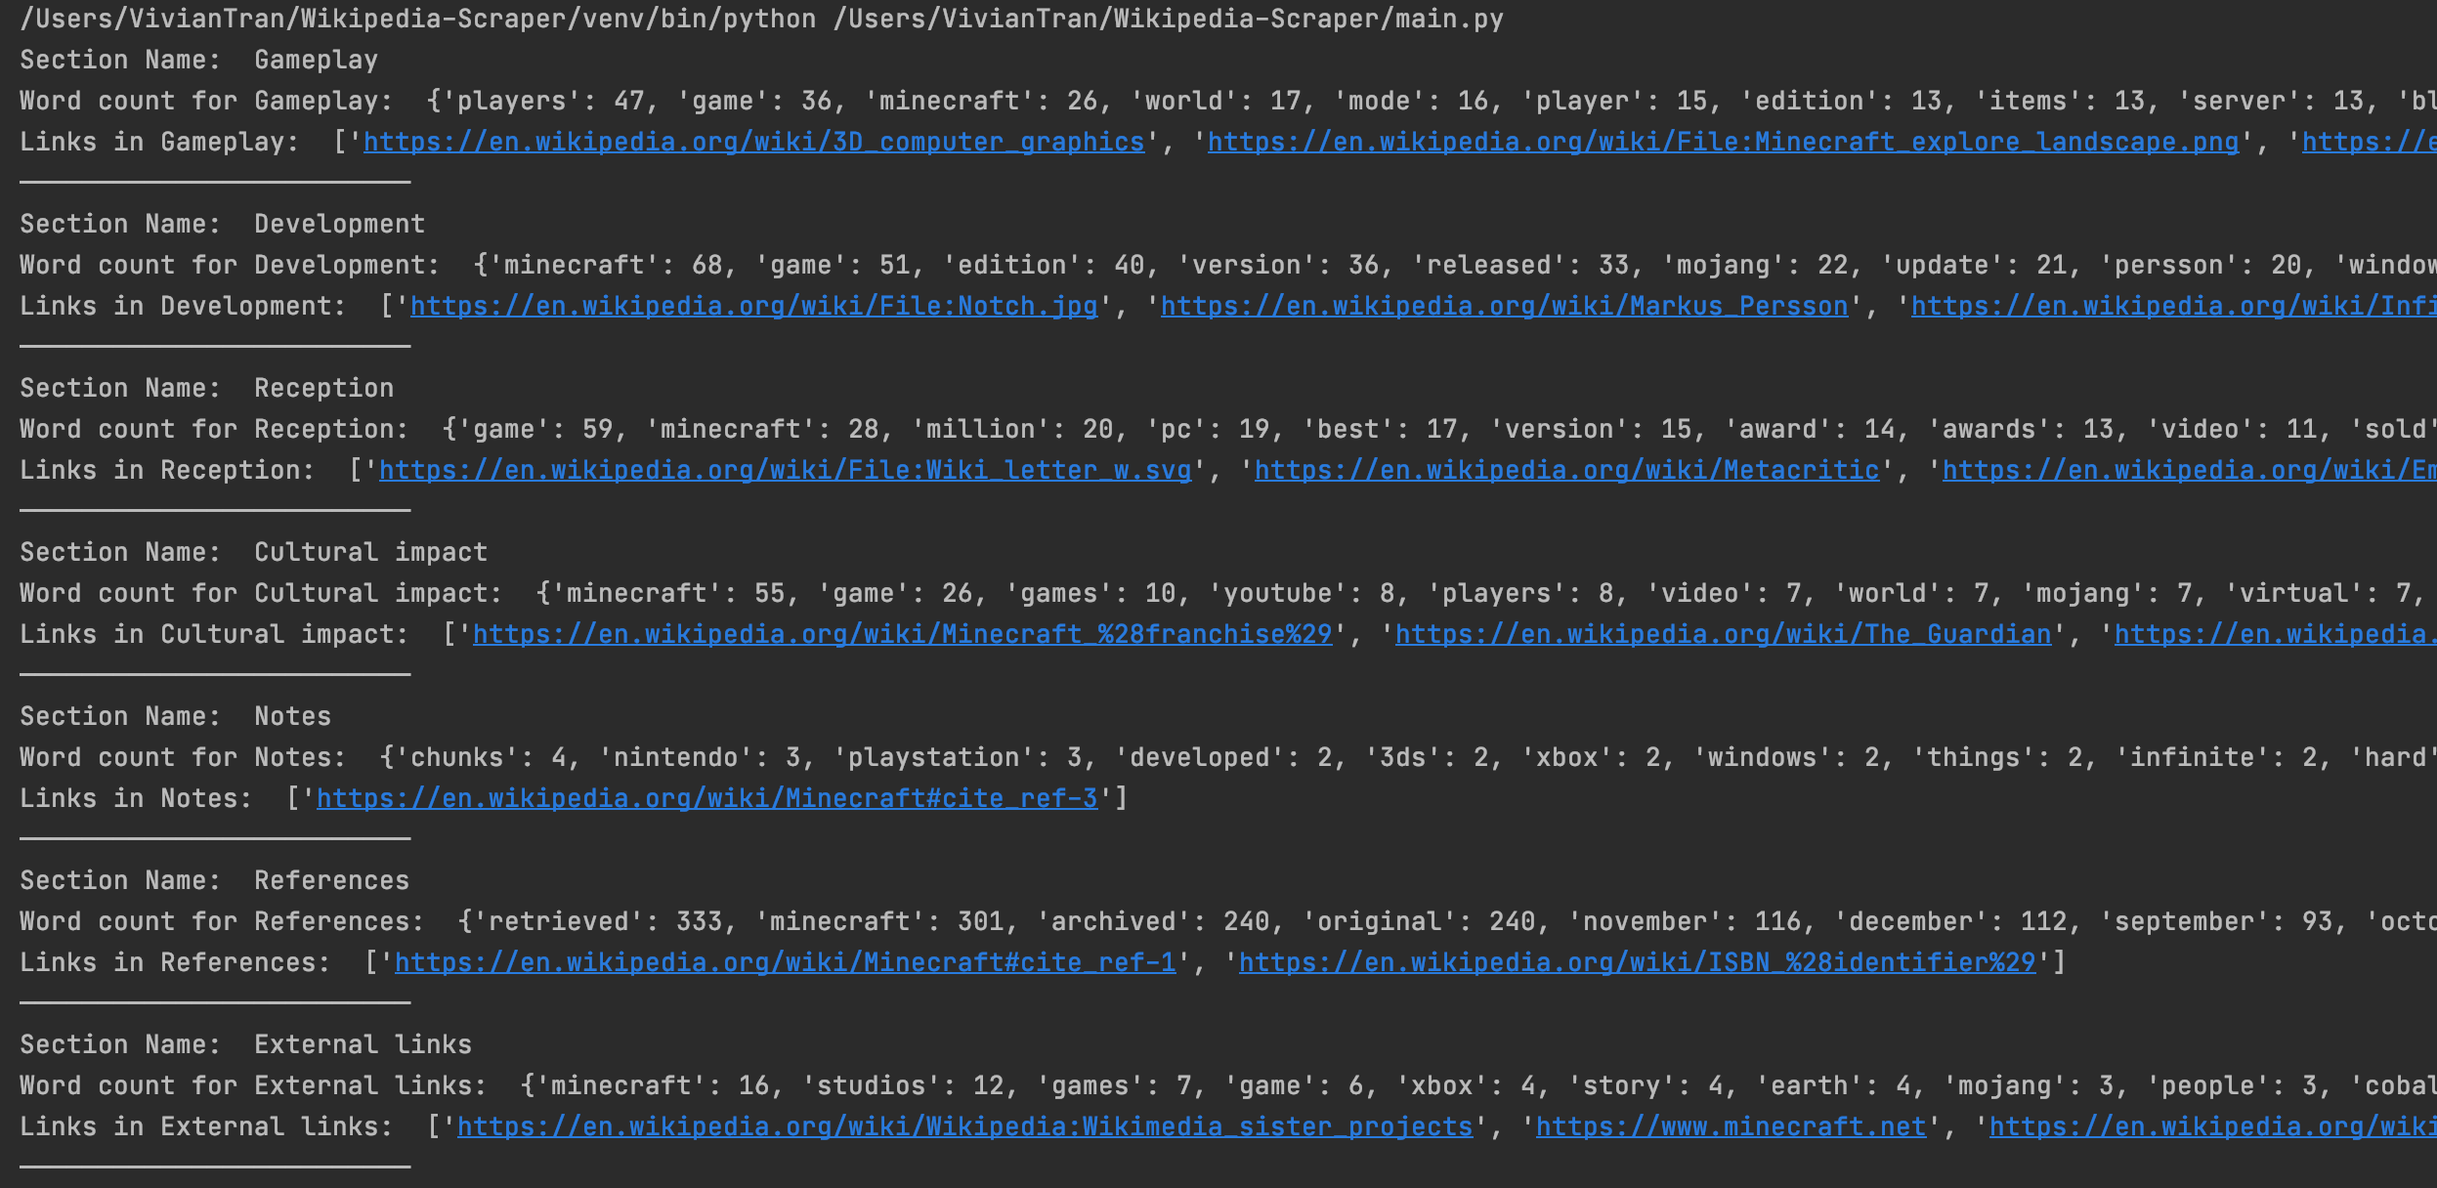
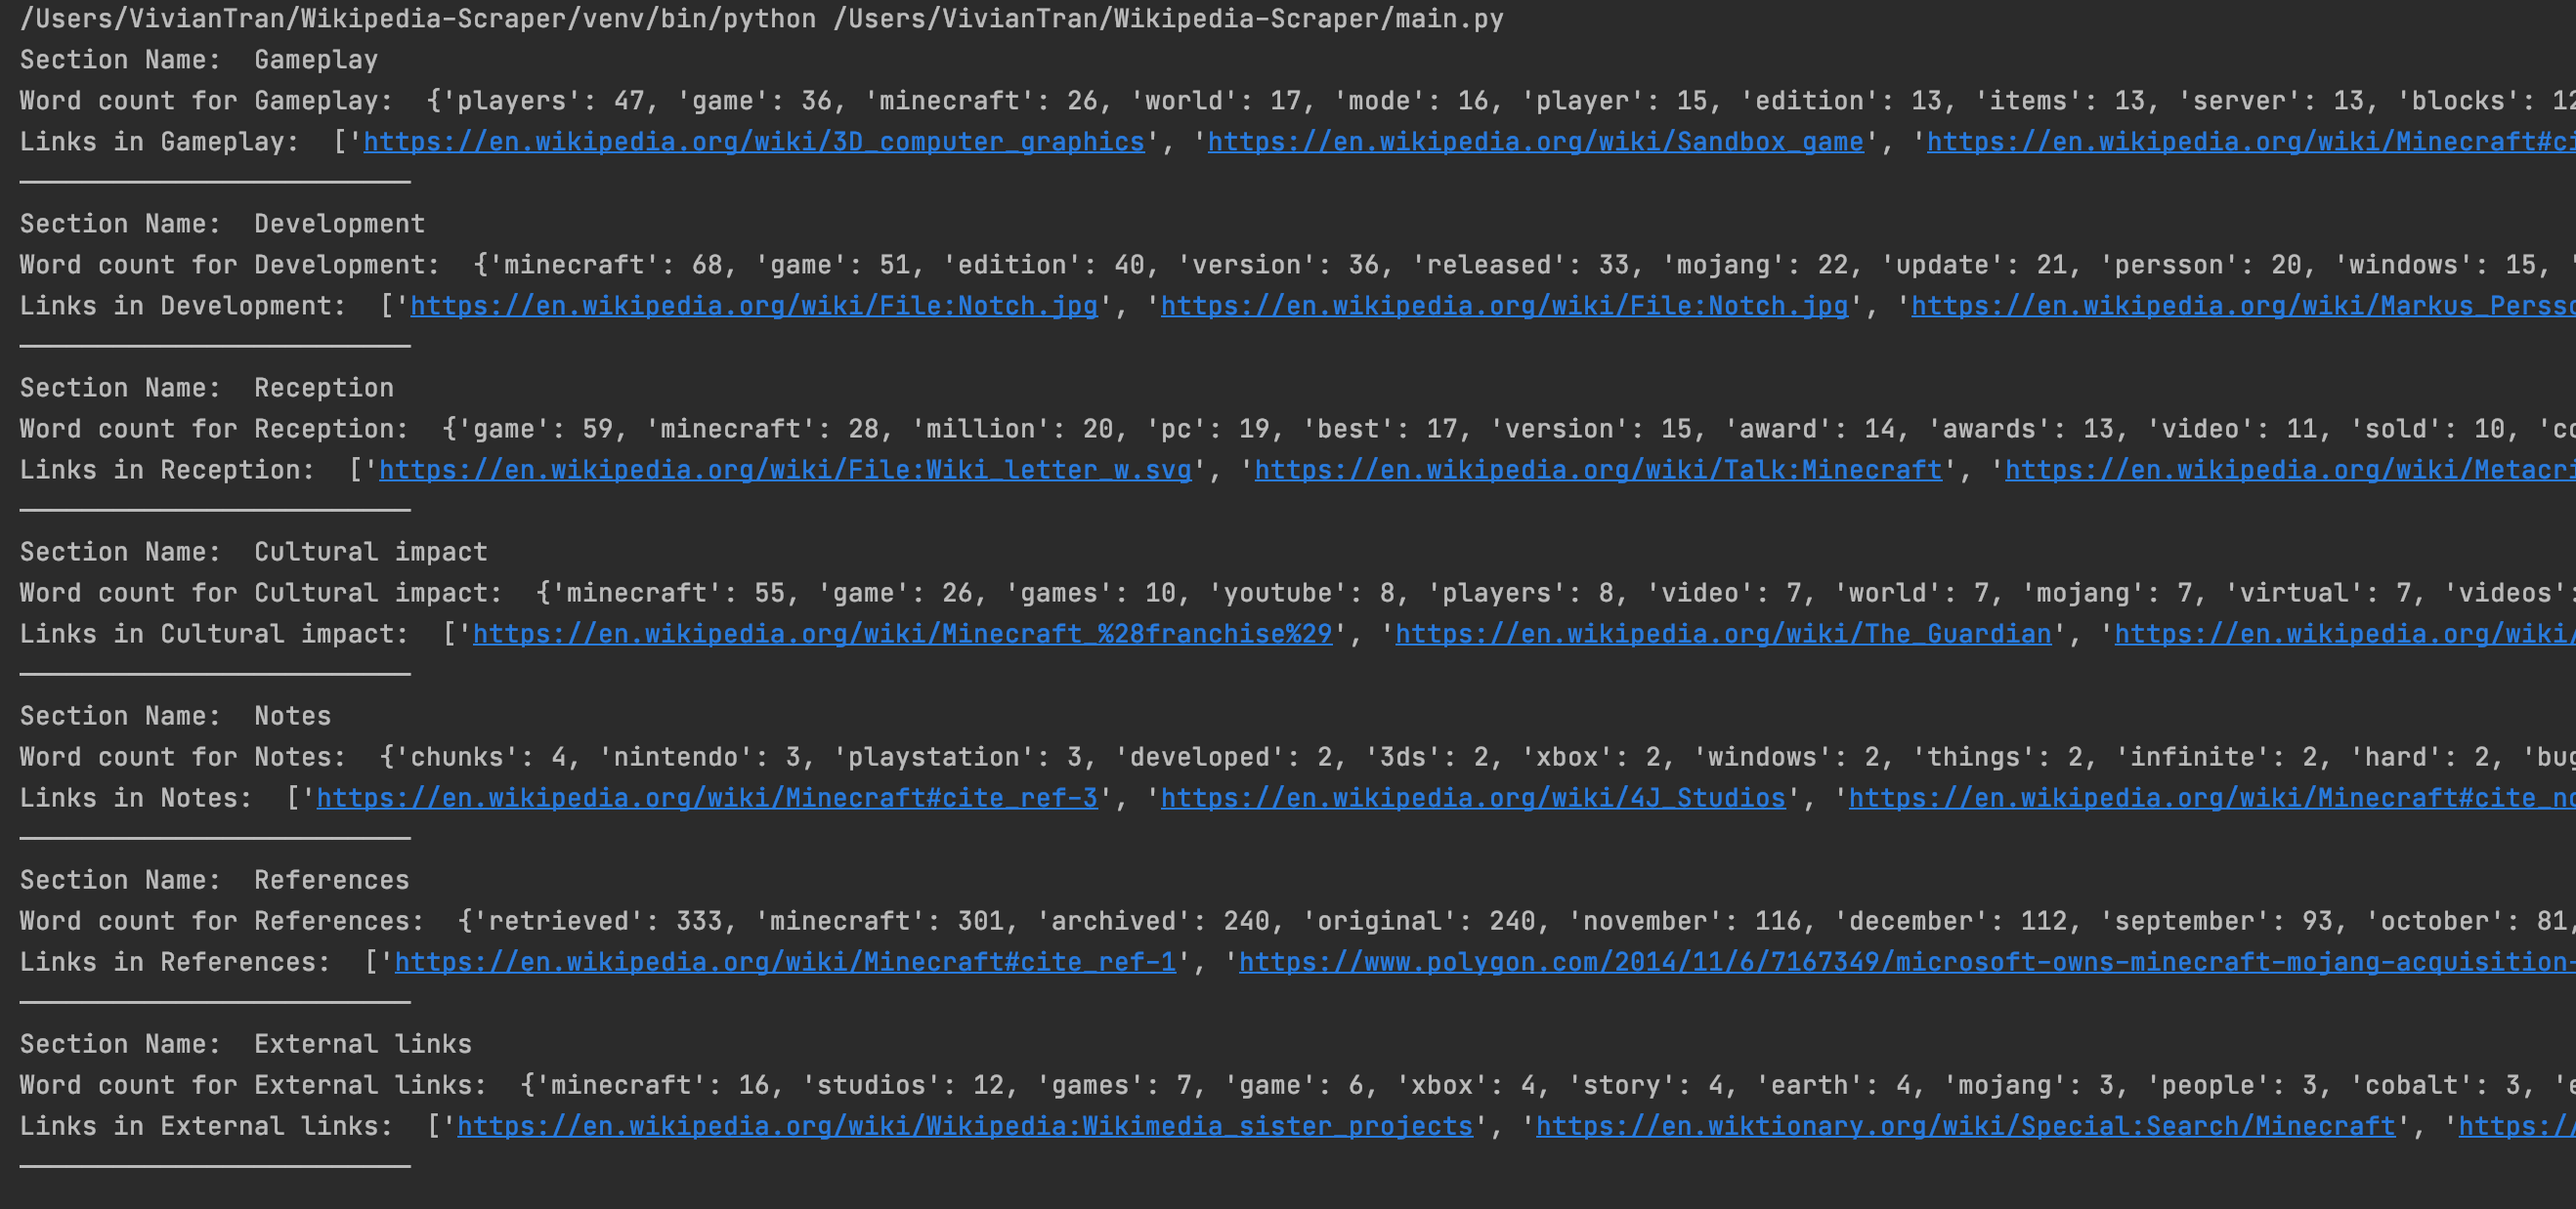
output image

Changed region(s): [[0.0, 0.0, 1.0, 0.9688]]

diff --git a/main.py b/main.py
@@ -114,20 +114,30 @@ def WikipediaScraper(URL):
 
                 # Extract links in section including links for images
                 if para.find('a'):
-                    link = para.find('a')
+                    links = para.find_all('a')
+                    # link = para.find('a')
+                    for link in links:
+                        if link.has_attr('href'):
+                            # Replace single apostrophe in link so that link isn't broken
+                            if "'" in link['href']:
+                                link['href'] = link['href'].replace("'", '%27')
 
-                    # Replace parenthesis in link so that link isn't broken
-                    if ('(' in link['href']) and (')' in link['href']):
-                        link['href'] = link['href'].replace('(', '%28')
-                        link['href'] = link['href'].replace(')', '%29')
+                            # Replace double apostrophe in link so that link isn't broken
+                            if '"' in link['href']:
+                                link['href'] = link['href'].replace('"', '%22')
 
-                    # Add to partial links so link is accessible
-                    if (link['href'][:6] == '/wiki/') or (link['href'][:3] == '/w/'):
-                        links_holder[section_name].append('https://en.wikipedia.org' + link['href'])
-                    elif link['href'][:10] == '#cite_ref-' or link['href'][:11] == '#cite_note-':
-                        links_holder[section_name].append(URL + link['href'])
-                    else:
-                        links_holder[section_name].append(link['href'])
+                            # Replace parenthesis in link so that link isn't broken
+                            if ('(' in link['href']) and (')' in link['href']):
+                                link['href'] = link['href'].replace('(', '%28')
+                                link['href'] = link['href'].replace(')', '%29')
+
+                            # Add to partial links so link is accessible
+                            if (link['href'][:6] == '/wiki/') or (link['href'][:3] == '/w/'):
+                                links_holder[section_name].append('https://en.wikipedia.org' + link['href'])
+                            elif link['href'][:10] == '#cite_ref-' or link['href'][:11] == '#cite_note-':
+                                links_holder[section_name].append(URL + link['href'])
+                            else:
+                                links_holder[section_name].append(link['href'])
 
             # Combines all the text in section and does frequent word count
             combined = ''.join([content.text for content in wiki_holder[section_name]])
